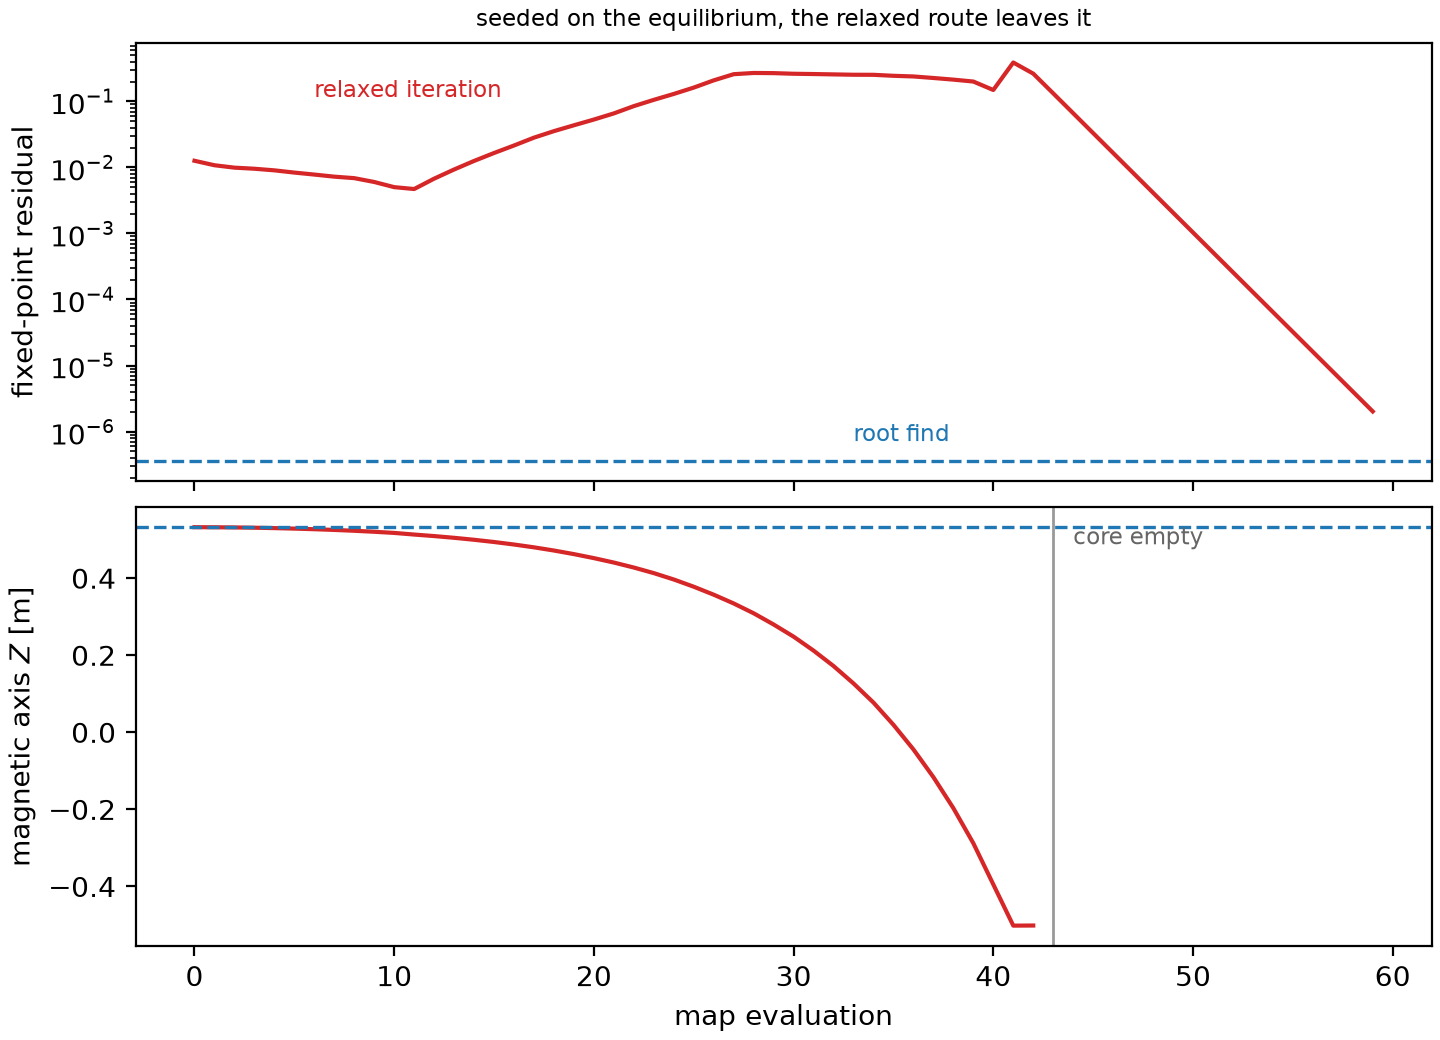
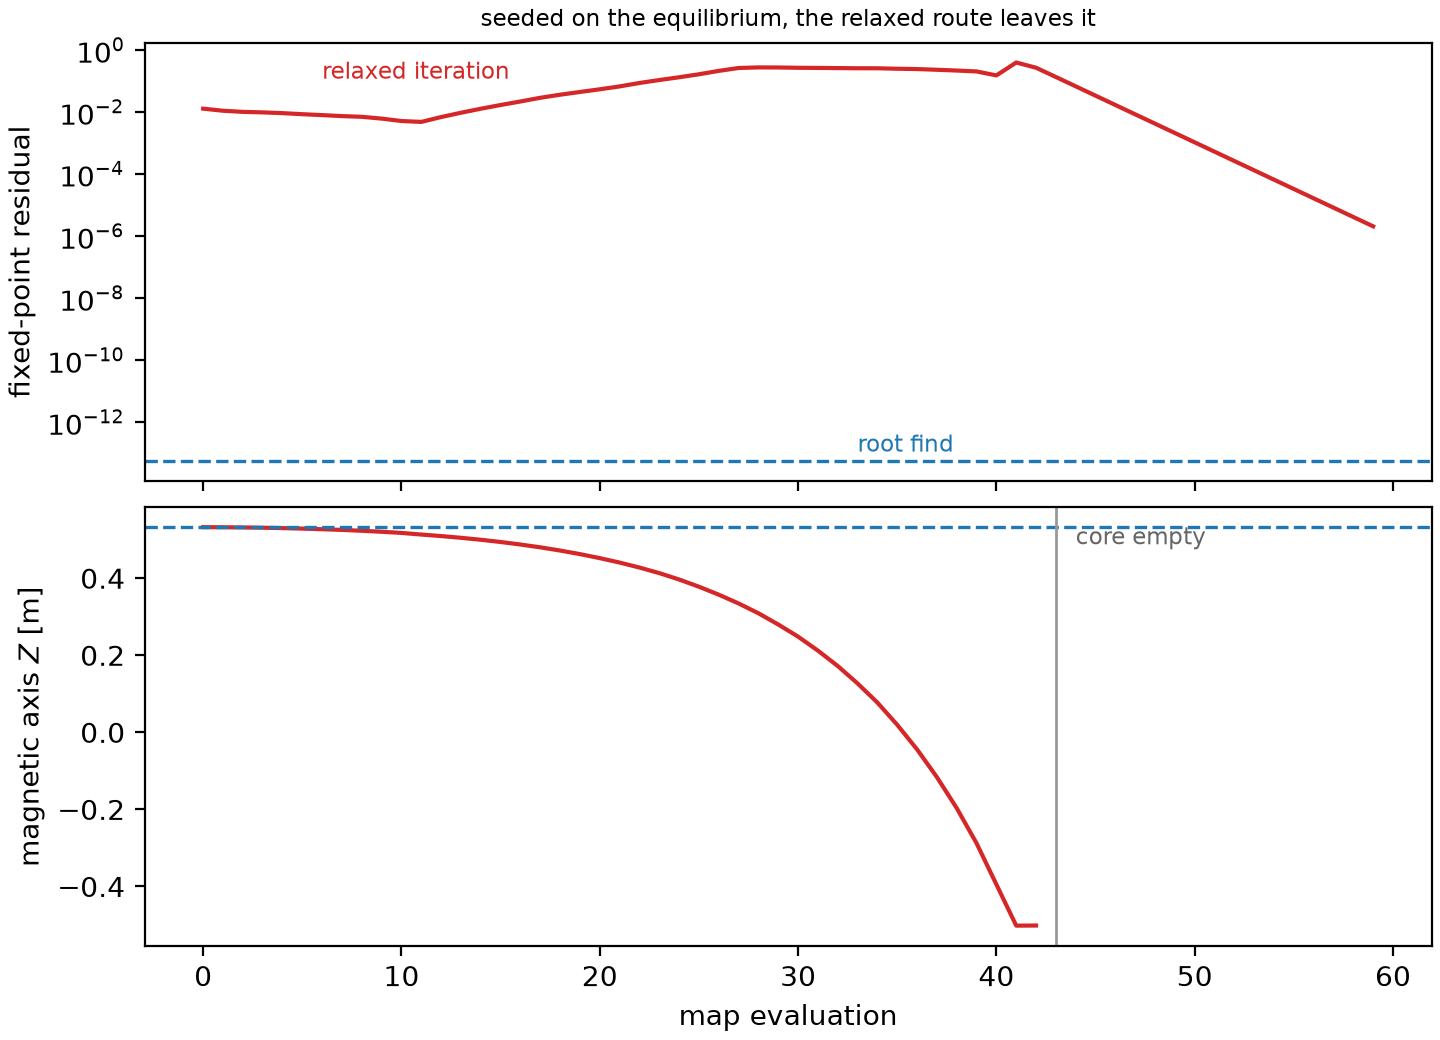
test(equilibrium): read the solve floor from the fit rather than a constant
Advancing onto the double-precision null-fit default moves the arithmetic
floor under this demonstration by six decades and, with it, two statements
that were true only under the single-precision fit.

The root find no longer stalls. Under single precision the residual fell four
decades in four Newton steps and the remaining five oscillated inside the
axis-flux ladder band; under double it keeps descending to 5.5e-14 at 1587
cells and 1.1e-15 on the suite mesh, so the budget is used rather than spent
rattling. Which floor binds also changes hands: a single-precision ladder step
is 7.6e-06 Wb on this case and binds alone, while a double one falls to a unit
in the last place and the round-off the coupling accumulates over a dot
product across the cells binds instead, at about 2e-11 Wb. Both are now
computed and the coarser taken, matching the resolution pattern the solve
fixtures use, and convergence is asserted against that resolution instead of
against a fixed number — the same assertion holds at 0.18 of the resolution
under single precision and 0.011 under double.

The eager Krylov cross-check is reinstated. scipy's Newton-Krylov was recorded
as failing on this map; under double it converges to the same equilibrium,
same axis to four decimals, with a flux map within 3.9e-07 Wb of the ladder
route. What defeated it before was the noise the fit left under its residual,
not its globalisation, so the earlier reading is withdrawn.
[…]

diff --git a/tests/test_equilibrium_forward_reference.py b/tests/test_equilibrium_forward_reference.py
@@ -86,25 +86,30 @@ The route is a root find because the map does not contract.
     non-contraction, which is what selects the route, and not the
     identification of a vertical eigenmode.
 
-    The eager Krylov route is not a substitute. Driven through ``host_krylov``
-    on the same seed, ``scipy.optimize.newton_krylov`` raises ``NoConvergence``
-    on this map both at a tolerance derived from the flux ladder and at one two
-    decades looser, so what fails is its globalisation and not its tolerance.
+    The eager Krylov route agrees where it can run. Driven through
+    ``host_krylov`` on the same seed, :func:`scipy.optimize.newton_krylov`
+    reaches the same equilibrium — the same axis to four decimals, and a flux
+    map within 3.9e-07 Wb of the ladder route, five parts in a billion of the
+    span. Under a single-precision axis fit it instead raises
+    ``NoConvergence``, at a tolerance derived from the flux ladder and at one
+    two decades looser alike: what defeated it there was the noise the fit put
+    under its residual, not its globalisation.
 
-No tolerance below the axis-flux quantum is reachable.
-    The magnetic axis is fitted in the precision the null search carries, and
-    the normalised flux every profile is read against is formed from it, so
-    the spacing of the axis flux in that precision floors every flux
-    comparison downstream. The floor therefore scales with the flux rather
-    than being a fixed number: this case's axis flux is about 83 Wb, which a
-    single-precision fit resolves to 7.6e-06 Wb — 9.4e-08 of the flux span, or
-    9.2e-08 read as a relative residual — where a case whose fluxes are of
-    order one has a floor thirty times finer. A tolerance carried across from
-    one to the other is unreachable. The comparisons below therefore compute
-    the quantum from the fit's own dtype rather than naming a precision, and
-    the Newton budget is read in the same light: it falls four decades over
-    its first five steps, reaches the floor, and spends the rest rattling
-    inside it.
+No solve resolves flux below what its own arithmetic can express.
+    Two floors compete and the coarser one binds. One is a step of the ladder
+    the fitted axis flux lands on, since every profile is evaluated on a
+    normalised flux formed against that value; the other is the round-off the
+    plasma coupling accumulates over a dot product across the cells. Which one
+    binds follows the precision the null search fits at, so this module reads
+    the dtype off the fit rather than naming one — see :func:`flux_resolution`
+    — and the difference is not academic. On this case the axis flux is about
+    83 Wb: fitted in single precision its ladder step is 7.6e-06 Wb, decades
+    above the coupling sum and binding alone, and the root find stalls against
+    it four decades down. Fitted in double, one step falls to a single unit in
+    the last place, the coupling sum binds instead at about 2e-11 Wb, and the
+    same budget runs six decades further. A tolerance carried across from
+    another case, or from another precision, is therefore either unreachable
+    or meaningless, which is why nothing here names an absolute one.
 
 The published shape moments are not the reference's own.
     Recomputing poloidal beta and internal inductance from the stored flux map
@@ -192,9 +197,11 @@ WALL_NODES = 3
 #: Root-find budget. Each Newton step linearises the map once and solves
 #: ``(I - J) s = f`` in a fixed-shape Krylov space, which is what lets it hold
 #: an equilibrium the relaxed iteration cannot — see the vertical drift below.
-#: The budget is generous on purpose: the residual falls four decades over the
-#: first five steps and then reaches the quantum of the axis-flux read, after
-#: which the remaining steps rattle inside that floor rather than descending.
+#: The budget is generous on purpose. How far it gets is set by the arithmetic
+#: rather than by the step count: the residual falls four decades over the
+#: first four steps and then descends as far as the solve can express, which
+#: is the axis-flux ladder under a single-precision fit and the coupling
+#: round-off six decades below it under a double one.
 NEWTON_STEPS = 10
 KRYLOV_ITERATIONS = 30
 #: Relaxed evaluations the vertical drift is measured over, and its step.
@@ -238,6 +245,14 @@ CONVENTION_TOLERANCE = 0.02
 #: Agreement between the package's integral observation operator and an
 #: independent quadrature of the same field on a raster.
 QUADRATURE_TOLERANCE = 0.05
+
+#: How far above the flux resolution the converged residual may sit. Reading
+#: convergence against the resolution rather than against a fixed number is
+#: what makes the pin follow the precision the null search fits at: the same
+#: assertion holds at 0.18 of the resolution under a single-precision fit and
+#: 0.011 under a double one, where the absolute residuals differ by seven
+#: decades.
+RESOLUTION_MARGIN = 10.0
 
 #: Power iterations used to read the dominant eigenvalue of the free-boundary
 #: map at the converged equilibrium. The Rayleigh quotient is within a percent
@@ -683,20 +698,30 @@ def receipt_mesh(machine: HexMachine) -> StencilMesh:
     )
 
 
-def axis_flux_quantum(profile: ForwardProfile, equilibrium) -> float:
-    """Return the finest flux difference [Wb] the topology read can express.
+def flux_resolution(profile: ForwardProfile, equilibrium) -> float:
+    """Return the finest flux difference [Wb] the whole solve can express.
 
-    Every profile is evaluated on a normalised flux formed against the fitted
-    axis flux, so the spacing of that value in the precision the null search
-    fits at is the floor under any flux comparison downstream of it. The dtype
-    is read off the fit rather than assumed, so this follows a change of the
-    null-search precision instead of having to be revised alongside it, and
-    the magnitude is taken because the spacing of a negative value is negative
-    and this case's axis flux is negative.
+    Two floors compete and the coarser one binds. One is a step of the ladder
+    the axis flux lands on: every profile is evaluated on a normalised flux
+    formed against that fitted value, so its spacing in the precision the null
+    search fits at floors everything downstream. The other is the round-off the
+    plasma coupling accumulates — each residual entry is a dot product over the
+    grid's cells, so it carries up to that many units in the last place of the
+    flux scale.
+
+    Which one binds follows the fit precision, so neither is assumed: a single
+    precision fit puts its ladder decades above the coupling sum and binds
+    alone, while a double one puts a step at a single unit in the last place,
+    underneath the sum, and the sum binds instead. The dtype is read off the
+    fit, and the magnitude is taken because the spacing of a negative value is
+    negative and this case's axis flux is negative.
     """
     dtype = np.dtype(profile.operator.grid.null.fit_dtype)
     axis_flux = abs(float(equilibrium.topology.axis_flux))
-    return float(np.spacing(np.asarray(axis_flux, dtype=dtype)))
+    ladder = float(np.spacing(np.asarray(axis_flux, dtype=dtype)))
+    scale = float(jnp.max(jnp.abs(equilibrium.flux)))
+    accumulation = profile.operator.grid.node_number * float(np.spacing(scale))
+    return max(ladder, accumulation)
 
 
 def forward_profile(case: ReferenceCase, machine: HexMachine) -> ForwardProfile:
@@ -991,7 +1016,13 @@ def test_the_relaxed_route_walks_down_the_vertical_instability(solved):
 
     This is why the demonstration is a root find. It is also the reason a
     prescribed-source solve of a real elongated equilibrium cannot be qualified
-    by a residual alone — the vacuum branch has a perfect one.
+    by a residual alone: the run leaves an equilibrium whose residual sits at
+    the solve floor and then CONTRACTS onto the vacuum branch, so the two
+    directions of this one trace — growth away from the physical fixed point,
+    decay onto the trivial one — are the whole statement. Both are read within
+    the trace rather than against the root find's residual, which is a floor
+    set by the arithmetic and moves decades with the precision the axis is
+    fitted at.
     """
     operator = forward_operator(solved.case, solved.machine)
     history = fixed_point.picard(
@@ -1010,8 +1041,12 @@ def test_the_relaxed_route_walks_down_the_vertical_instability(solved):
         jnp.asarray(solved.machine.radius), operator.area, masks
     )
     assert float(jnp.sum(current)) == 0.0
-    # the collapsed branch is a perfectly good fixed point of the same map
-    assert float(history.residual) < float(solved.fixed_point.residual) * 1.0e3
+    # the vacuum branch attracts where the equilibrium repelled: the tail of
+    # the same trace contracts, at the geometric rate a relaxed step gives on
+    # a fixed point it is converging to
+    tail = trace[-(RELAXED_EVALUATIONS // 4) :]
+    assert tail[-1] < tail[0] / 10.0, tail[[0, -1]]
+    assert trace.max() > 10.0 * tail[-1]
 
 
 def test_no_current_appears_outside_the_declared_support(solved):
@@ -1133,6 +1168,12 @@ def test_the_published_solve_runs_on_the_production_mesh(published):
     assert isinstance(profile.lattice, StencilMesh)
     assert profile.lattice.node_count == profile.operator.grid.node_number
     assert float(equilibrium.fixed_point.residual) < RESIDUAL_TOLERANCE
+    # the sharper statement: the root find reaches the floor its own
+    # arithmetic sets, whatever precision the null search is fitting at
+    scale = float(jnp.max(jnp.abs(equilibrium.flux)))
+    residual = float(equilibrium.fixed_point.residual) * scale
+    resolution = flux_resolution(profile, equilibrium)
+    assert residual < RESOLUTION_MARGIN * resolution, (residual, resolution)
     assert bool(equilibrium.finite.passed)
     assert bool(equilibrium.topology.diverted)
     assert abs(float(equilibrium.moments.plasma_current)) > 1.0e7
@@ -1147,9 +1188,9 @@ def test_the_receipt_layer_reads_the_solve_without_changing_it(published, solved
     finest difference anything downstream of the topology read can express.
     """
     profile, equilibrium = published
-    ladder_step = axis_flux_quantum(profile, equilibrium)
+    resolution = flux_resolution(profile, equilibrium)
     deviation = float(jnp.max(jnp.abs(equilibrium.flux - solved.flux)))
-    assert deviation < ladder_step, (deviation, ladder_step)
+    assert deviation < resolution, (deviation, resolution)
     for name in ("plasma_current", "volume", "major_radius"):
         published_value = float(getattr(equilibrium.moments, name))
         operator_value = float(getattr(solved.moments, name))
